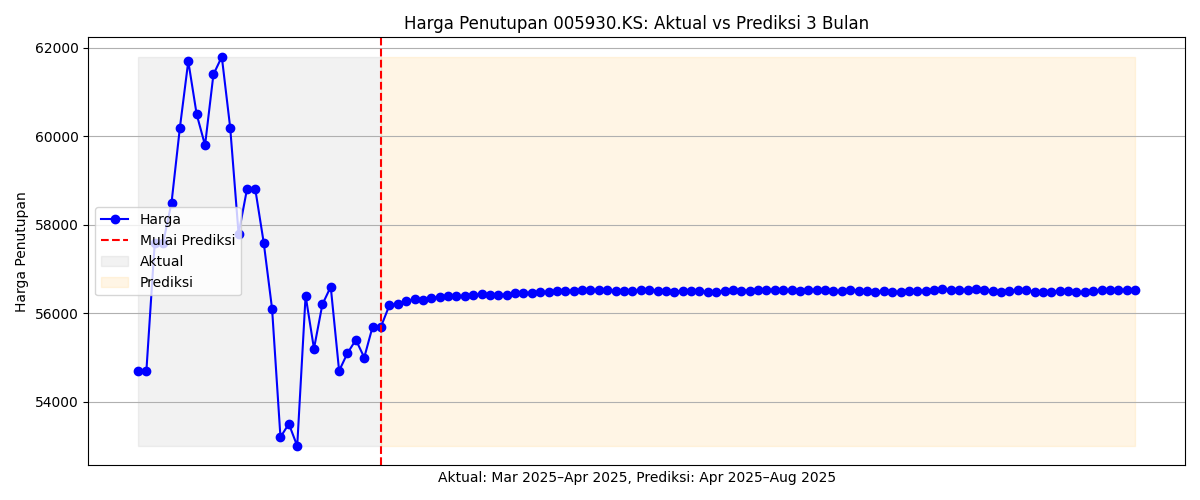
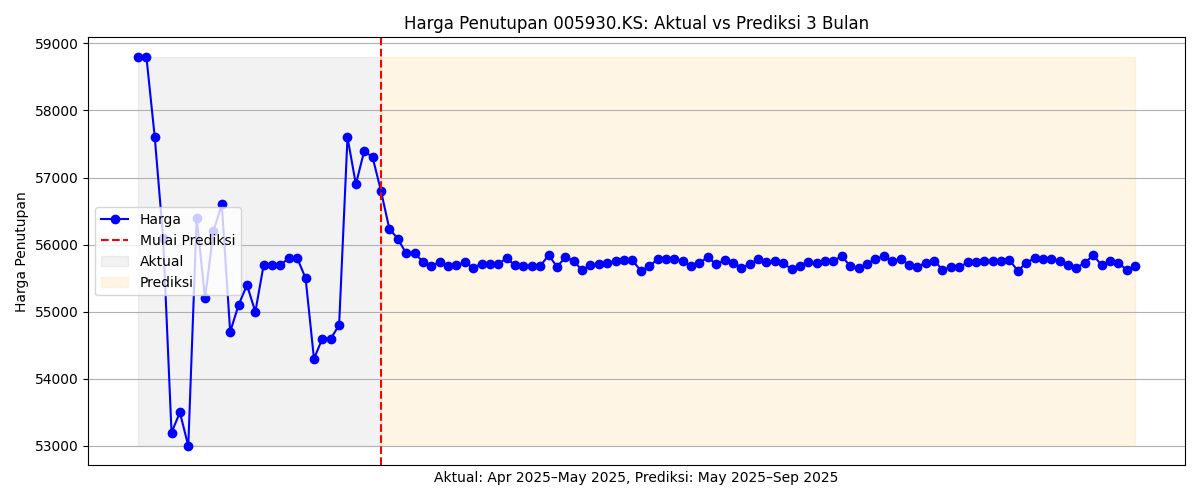
.

diff --git a/templates/prediction.html b/templates/prediction.html
@@ -21,15 +21,13 @@
     <div class="hero-content">
         <h1 class="text-center mb-4">Optimasi Portofolio Saham Teknologi</h1>
     
-        <div class="form-section-horizontal">
+        <form method="POST" action="/prediction" class="form-section-horizontal" onsubmit="return showLoading()">
             <div class="form-group-horizontal">
                 <label for="dana_investasi" class="form-label-horizontal">Masukkan Dana Anda (IDR):</label>
                 <input type="number" step="any" name="dana_investasi" class="form-input-modern" placeholder="Contoh: 10000000" required>
             </div>
-            <button type="submit" class="form-button-modern">Tampilkan Rekomendasi</button>
-        </div>
-
-
+            <button type="submit" id="submit-btn" class="form-button-modern">Tampilkan Rekomendasi</button>
+        </form>
 
         <script>
             function showLoading() {

diff --git a/static/style.css b/static/style.css
@@ -17,9 +17,9 @@ h2 {
 }
 
 .img-fluid {
-    max-width: 100%;
+    max-width: 50%;
     height: auto;
-    border-radius: 10px;
+    border-radius: 30px;
     margin-top: 20px;
 }
 

diff --git a/app.py b/app.py
@@ -42,13 +42,13 @@ def load_model_by_ticker(ticker):
 
 # === Daftar Ticker ===
 tickers_13saham = ['NVDA', 'AAPL', 'GOOGL', '005930.KS', '000660.KQ',
-                   'AMD', 'TSLA', 'ORCL', 'AMZN', 'INTC', 'MSFT','9988.HK']
-tickers_xiaomi = ['1810.HK', '0700.HK']
+                   'AMD', 'TSLA', 'ORCL', 'AMZN', 'INTC', 'MSFT','9988.HK', '0700.HK']
+tickers_xiaomi = ['1810.HK']
 tickers_sony = ['SONY']
 
 sp500_ticker = '^GSPC'
 start_date = '2023-01-01'
-end_date = '2025-04-25'
+end_date = datetime.today().strftime('%Y-%m-%d')
 
 @app.route('/')
 def home():
@@ -95,7 +95,8 @@ def prediction():
                 gagal.append(ticker)
                 continue
             save_prediction_chart(ticker, df, future_preds)
-            expected_return = (harga_pred_3bulan - harga_now) / harga_now
+            raw_return = (harga_pred_3bulan - harga_now) / harga_now
+            expected_return = max(min(raw_return, 1.0), -0.5)
             results.append({
                 'ticker': ticker,
                 'current_price': harga_now,
@@ -110,7 +111,8 @@ def prediction():
                 gagal.append(ticker)
                 continue
             save_prediction_chart(ticker, df, future_preds)
-            expected_return = (harga_pred_3bulan - harga_now) / harga_now
+            raw_return = (harga_pred_3bulan - harga_now) / harga_now
+            expected_return = max(min(raw_return, 1.0), -0.5)
             results.append({
                 'ticker': ticker,
                 'current_price': harga_now,
@@ -125,7 +127,8 @@ def prediction():
                 gagal.append(ticker)
                 continue
             save_prediction_chart(ticker, df, future_preds)
-            expected_return = (harga_pred_3bulan - harga_now) / harga_now
+            raw_return = (harga_pred_3bulan - harga_now) / harga_now
+            expected_return = max(min(raw_return, 1.0), -0.5)
             results.append({
                 'ticker': ticker,
                 'current_price': harga_now,
@@ -313,7 +316,7 @@ def predict_ticker_with_model(ticker, model_type='per_ticker'):
 
             future_price = final_pred_ensemble
             future_predictions.append(future_price)
-
+            
             new_row = X_latest.copy()
             new_row['Lag4'] = new_row['Lag3']
             new_row['Lag3'] = new_row['Lag2']
@@ -732,4 +735,4 @@ def format_df_for_display(df):
                'Return (%)', 'Alokasi (IDR)', 'Estimasi Profit (IDR)']]
 
 if __name__ == '__main__':
-    app.run(debug=False, host='0.0.0.0', port=int(os.environ.get("PORT", 5000)))
+    app.run(debug=True)
